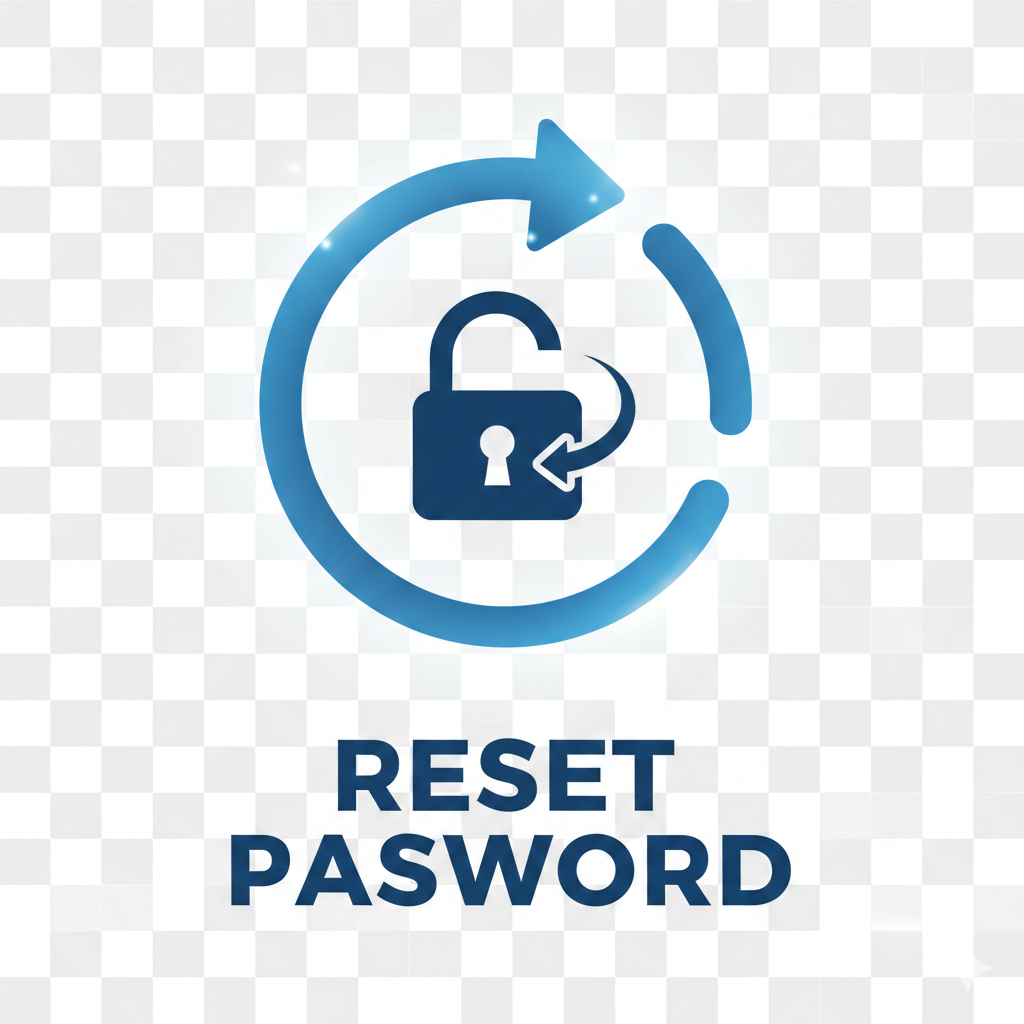
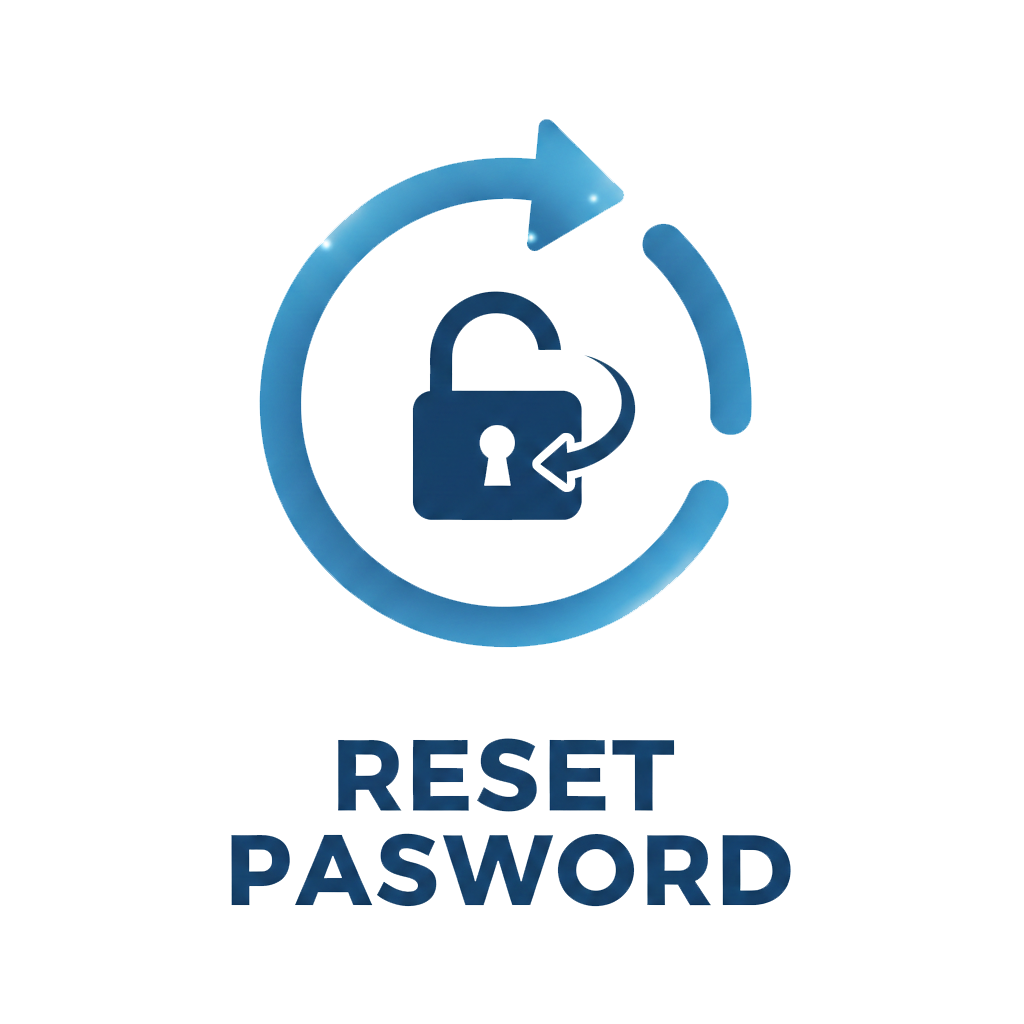
add image for reset pass

diff --git a/vue-ReabList-Ass/src/views/authentication/ResetPassword.vue b/vue-ReabList-Ass/src/views/authentication/ResetPassword.vue
@@ -23,7 +23,7 @@
           <div class="glow-circle" :style="parallaxStyle(-10)"></div>
           <div class="z-2 text-center content-wrapper">
             <img
-              src="https://cdn3d.iconscout.com/3d/free/thumb/free-security-2997198-2491675.png"
+              src="../../assets/images/resetpassword (3).png"
               alt="Security 3D"
               class="img-fluid mb-4 floating-3d"
               :style="parallaxStyle(15)"
